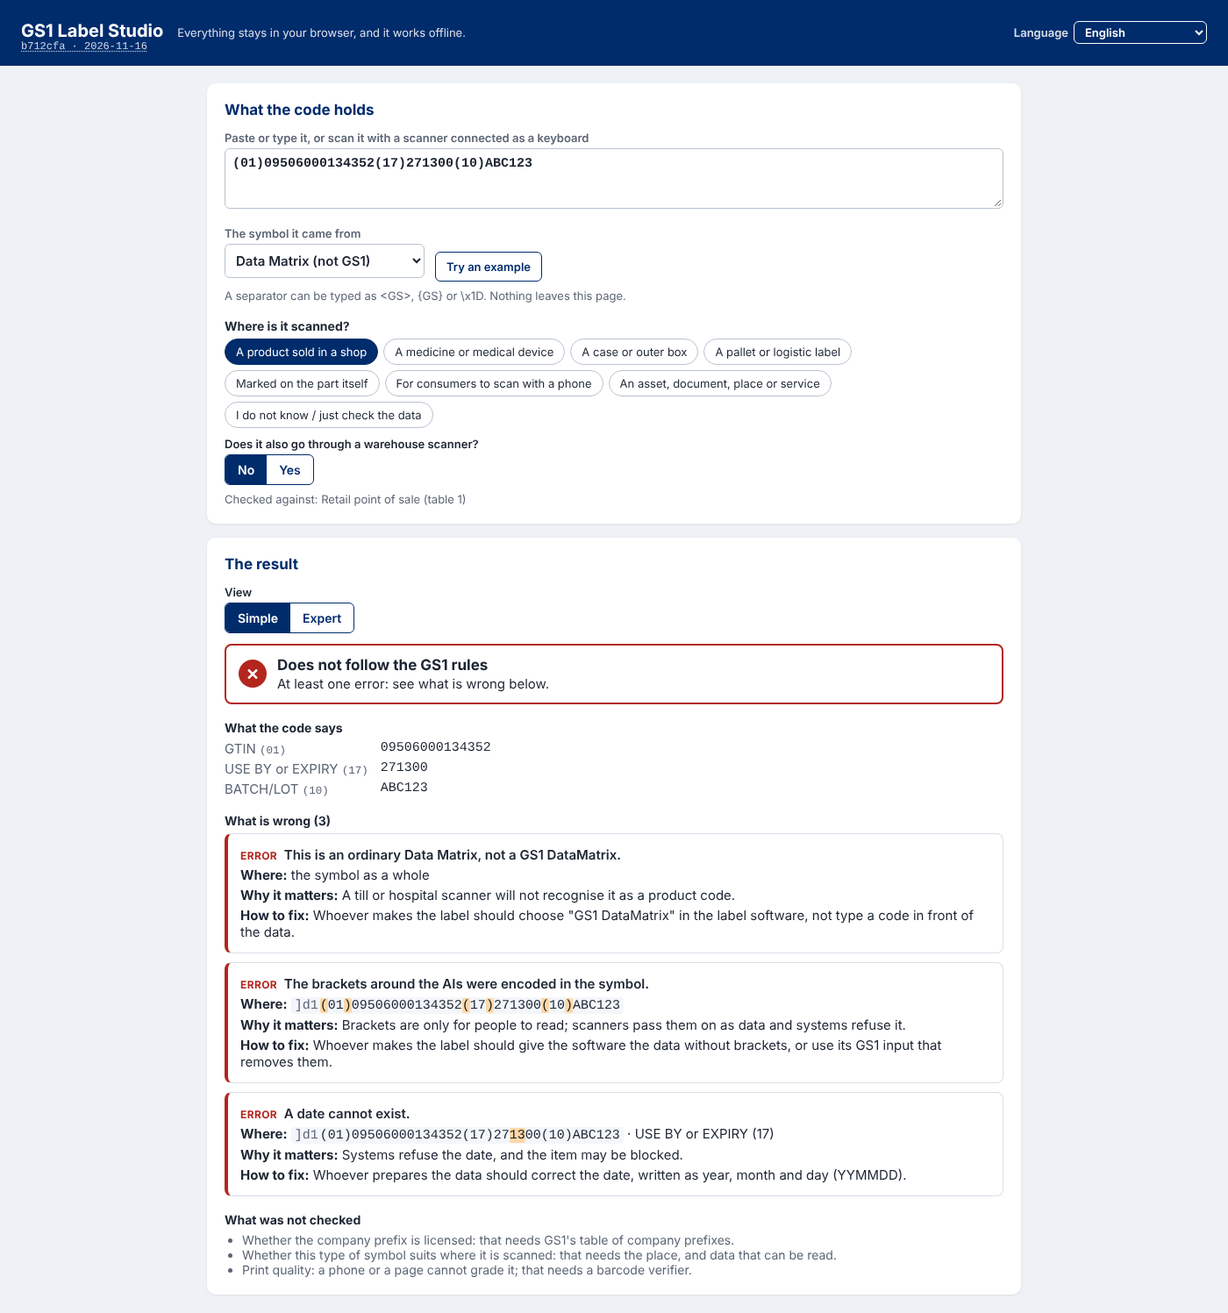
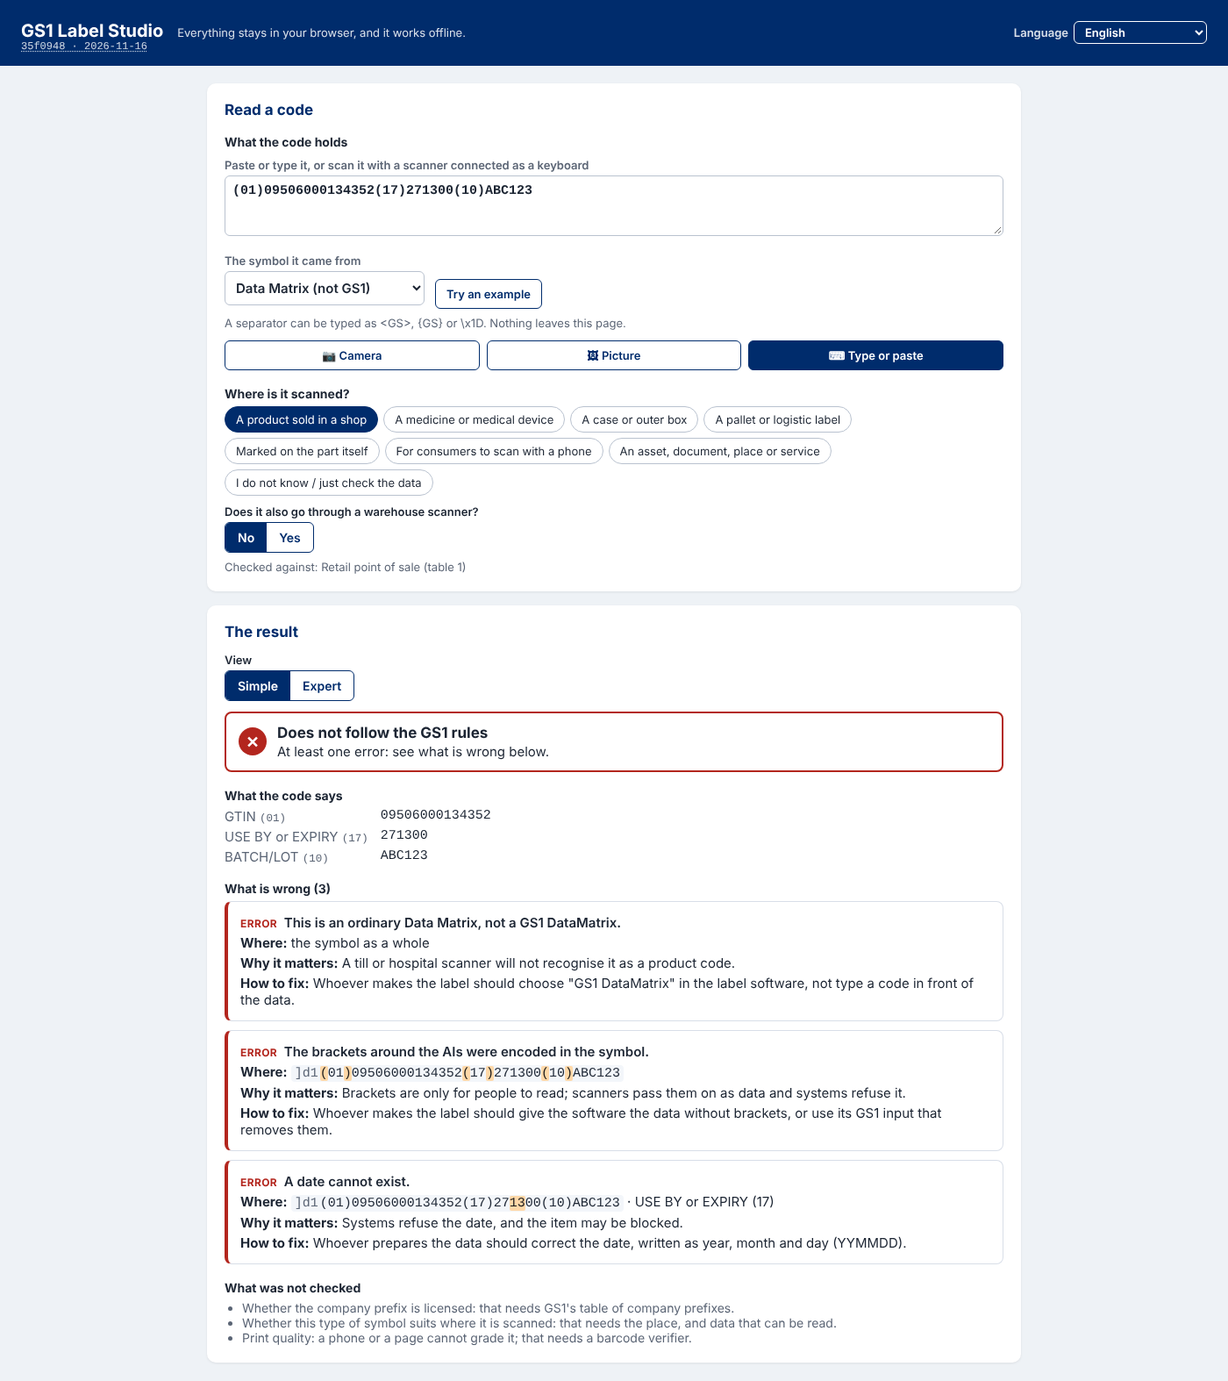
docs: the Check Studio's camera and pictures in features, the user guide, ADR 0007, the backlog and the inventory (2,675 tests)
ADR 0007 decision 13 records the ways in, the camera's life, the picture read whole, what cannot be read, and why the
browser tests play the camera as a canvas stream rather than Chromium's fake device. The user guide's Check Studio
steps gain the camera and the picture, with check-picture.png; check.png shows the new reading area.

Claude-Session: https://claude.ai/code/session_01AV1osuu6Ztavd16qwvkDRj

diff --git a/apps/web/screenshots/guide.spec.ts b/apps/web/screenshots/guide.spec.ts
@@ -1,3 +1,4 @@
+import { readFileSync } from "node:fs";
 import { expect, test, type Locator, type Page } from "@playwright/test";
 
 // The user guide's screenshots (docs/user-guide.md; ADR 0005), from the built application, each a step the guide
@@ -50,6 +51,20 @@ test("the Check Studio: the worked example's result, simple and expert", async (
   await studio.getByRole("radio", { name: "Expert" }).click();
   await studio.locator(".expert").scrollIntoViewIfNeeded();
   await shot(studio.locator(".check-result"), "check-expert");
+});
+
+test("the Check Studio: a picture of three symbols, outlined and numbered", async ({ page }) => {
+  const symbol = (file: string) =>
+    readFileSync(new URL(`../e2e/fixtures/${file}`, import.meta.url), "utf8").trim().replace(/<svg([^>]*?) width="[^"]*" height="[^"]*"/, '<svg$1 width="320" height="320"');
+  const inner = ["gs1-datamatrix.svg", "datamatrix-brackets.svg", "ean13.svg"].map((f, i) => symbol(f).replace("<svg", `<svg x="${20 + i * 360}" y="40"`)).join("");
+  const picture = `<svg xmlns="http://www.w3.org/2000/svg" width="1120" height="400" viewBox="0 0 1120 400"><rect width="100%" height="100%" fill="#f4efe6"/>${inner}</svg>`;
+  await page.goto("/#/check");
+  const studio = page.getByRole("main", { name: "Check Studio" });
+  await studio.getByRole("button", { name: "Picture", exact: true }).click();
+  await studio.getByLabel("Picture", { exact: true }).setInputFiles({ name: "pack.svg", mimeType: "image/svg+xml", buffer: Buffer.from(picture) });
+  await studio.getByRole("list", { name: "The symbols found" }).getByRole("button", { name: /\bData Matrix/ }).click();
+  await expect(studio.locator(".verdict")).toHaveAttribute("data-verdict", "does-not-follow");
+  await shot(studio.locator(".check-input"), "check-picture");
 });
 
 test("the editor at a glance", async ({ page }) => {

diff --git a/docs/test-inventory.md b/docs/test-inventory.md
@@ -1,6 +1,6 @@
 # Inventory of features from the tests
 
-Every test of the core's suite, of the web application's unit tests and of the editor's browser tests on 2026-11-16: 2,659 tests in 63 files. Each line is a test's name, a sentence that says what is true when it passes; together they say what the studio does and that it works. Each feature of [features.md](features.md) names the tests that prove it. Generated by `node scripts/inventory.mjs` from a complete run of the core's tests and the list of the browser tests ([ADR 0005](adr/0005-documentation-and-feature-inventory.md)); do not edit by hand.
+Every test of the core's suite, of the web application's unit tests and of the editor's browser tests on 2026-11-16: 2,675 tests in 65 files. Each line is a test's name, a sentence that says what is true when it passes; together they say what the studio does and that it works. Each feature of [features.md](features.md) names the tests that prove it. Generated by `node scripts/inventory.mjs` from a complete run of the core's tests and the list of the browser tests ([ADR 0005](adr/0005-documentation-and-feature-inventory.md)); do not edit by hand.
 
 Every unit test ran and passed in the run that wrote this file, the ZPL printed by Labelary included (`LABELARY=1`), but the documents' own test (`docs`), which checks this file and runs right after it is written. The browser tests are listed by Playwright and run by CI against the built application, on a desktop, a phone and a tablet held horizontally (a test about one layout is skipped in the others).
 
@@ -13,11 +13,11 @@ Every unit test ran and passed in the run that wrote this file, the ZPL printed 
 | [In bulk: rows, the report, sequences, generation](#in-bulk-rows-the-report-sequences-generation) | `batch`, `bulk`, `report`, `sequence`, `table` | 167 |
 | [Printers: the dot grid, profiles, ZPL, TSPL, EPL2, DPL, PPLA and PPLB](#printers-the-dot-grid-profiles-zpl-tspl-epl2-dpl-ppla-and-pplb) | `argox`, `dots`, `labelary`, `printer`, `printlangs`, `zpl` | 257 |
 | [RFID, NFC and digital signatures](#rfid-nfc-and-digital-signatures) | `epc`, `epcPlus`, `ndef`, `sign` | 1,286 |
-| [The Check Studio: a code read to be checked](#the-check-studio-a-code-read-to-be-checked) | `check`, `check-group`, `check-studio`, `engine-map`, `faults`, `reading` | 162 |
+| [The Check Studio: a code read to be checked](#the-check-studio-a-code-read-to-be-checked) | `camera`, `check`, `check-group`, `check-studio`, `engine-map`, `faults`, `reading` | 170 |
 | [The work saved on one's own computer and opened again](#the-work-saved-on-ones-own-computer-and-opened-again) | `lastwork`, `opened`, `work` | 9 |
 | [The interface's languages: English, Brazilian Portuguese, Spanish, French, German, Italian](#the-interfaces-languages-english-brazilian-portuguese-spanish-french-german-italian) | `i18n` | 15 |
 | [The documents](#the-documents) | `docs` | 7 |
-| [The editor in the browser (Playwright, desktop, phone and tablet)](#the-editor-in-the-browser-playwright-desktop-phone-and-tablet) | `routes`, `tour`, `check-result`, `editor`, `layouts`, `studios` | 150 |
+| [The editor in the browser (Playwright, desktop, phone and tablet)](#the-editor-in-the-browser-playwright-desktop-phone-and-tablet) | `routes`, `tour`, `check-camera`, `check-result`, `editor`, `layouts`, `studios` | 158 |
 
 ## Input and identification: the Syntax Engine, keys, qualifiers, attributes
 
@@ -2581,6 +2581,19 @@ Every unit test ran and passed in the run that wrote this file, the ZPL printed 
 
 ## The Check Studio: a code read to be checked
 
+<details><summary><code>camera</code> — 8 tests (<code>apps/web/test/camera.test.ts</code>)</summary>
+
+- the camera's problems › name a refused, missing or busy camera from the error's name
+- the track's controls › offer a torch and a zoom only where the capabilities say so
+- the same reading within three seconds › counts once; again after the interval; another symbol at once
+- the same reading within three seconds › tells symbols apart by their identifier and bytes
+- the readings of a frame or a picture › keep the decoder's bytes, identifier, corners and the picture's size
+- the readings of a frame or a picture › say when a linear symbol read by the camera or in a picture may have a Composite part left out
+- the readings of a frame or a picture › name each symbol as a person knows it
+- a picture's size › is kept up to the limit, and scaled down to it on the longest side
+
+</details>
+
 <details><summary><code>check</code> — 91 tests (<code>packages/core/test/check.test.ts</code>)</summary>
 
 - the fault corpus: each fault of groups A and B drawn in a symbol, read back by ZXing and found at its bytes › A1 (datamatrix)
@@ -2856,6 +2869,19 @@ Every unit test ran and passed in the run that wrote this file, the ZPL printed 
 - the tour's ring › is the part of the target inside the window
 - the tour's stops › on a computer, the three steps, the label's parts and the header's buttons, ending on the tour's own button
 - the tour's stops › on a phone or a tablet, each destination opened before it is pointed at, ending on More
+
+</details>
+
+<details><summary><code>check-camera</code> — 8 tests (<code>apps/web/e2e/check-camera.spec.ts</code>)</summary>
+
+- on a touch screen the studio opens on the camera, with a mouse on the text
+- the camera reads a code, opens its result and stops; Scan another starts it again
+- the camera stops when the tab is hidden, starts again when it is shown, and stops when the studio is left
+- a torch and a zoom where the camera offers them
+- a refused camera says so and offers a picture; a missing one says there is none
+- a picture of three symbols: each outlined and numbered with its verdict, one chosen shows its result
+- a picture with no barcode says what cannot be read; There is a code here gives fault A9
+- a picture pasted or dropped on the studio is read
 
 </details>
 

diff --git a/docs/features.md b/docs/features.md
@@ -119,6 +119,7 @@ Which standard each follows: [conformance](conformance.md).
 | A code checked in its context, a tag's EPC, and several carriers of one item (the Check Studio's engine; no screen yet) | Backlog 7.1 d, ADR 0007: given the reading context, `check()` holds the symbol to that context's specification table and lists the symbols it allows for the data, recommended first as step 2 does; a 2D symbol alone at a retail till, an add-on, an EAN/UPC asked for attributes; "I do not know" lists the context's checks as not assessed, never as passed; an RFID tag's EPC (classic or EPC+) decoded, its header, reserved filter and partition checked, its data through the engine; an NFC tag's URI first, in a URI record, with https; `checkGroup()` compares several readings of one item in a matrix, one row per AI and one column per carrier, character by character: different keys or values, an EPC or NFC tag that disagrees with the barcodes (a serial an SGTIN-96 cannot hold said so), attributes whose key is in another symbol, a retail pack without its linear symbol, a case's GS1-128 data missing from its 2D symbol, a logistic label that contradicts itself, a non-GS1 symbol | `fb553c9` | `check-group`: the same reading gives different verdicts · `check-group`: F1 lists the symbols allowed · `check-group`: I2: a reserved filter · `check-group`: I3: the URI not in the first record · `check-group`: an EAN-13, a GS1 DataMatrix and an SGTIN-96 · `check-group`: C9 and E1 of a reading are resolved · `check-group`: J8 compares host |
 | The start page and the studios' addresses | Backlog 7.1 e, ADR 0007: the address of the tool opens on its studios as cards; the Label Studio (`#/label`, the editor as before) and the Barcode Studio (`#/barcode`, the same editor with the barcode alone) are links, the RFID Studio named and marked coming soon (the Check Studio too, until 7.1 f); the name in the header leads back; Back and Forward move between studios and what was typed is kept; the installed application offers both studios as shortcuts | `474fa24` | `studios`: the root offers the studios · `studios`: the keyboard reaches each studio · `studios`: back and forward move between studios · `studios`: the installed application offers · `routes`: parseRoute › the root, with or without a hash |
 | The Check Studio's result | Backlog 7.1 f, ADR 0007: at `#/check`, what a code holds pasted or typed (a scanner in keyboard mode), the symbol it came from and where it is scanned (eight places, two with a follow-up question) checked by the core's `check()`; the simple view gives the verdict with an icon and a word, what the code says with the data titles in the user's language, a card per finding (what, where with the code's text highlighted, why it matters, how to fix and who does it; *Make it right* opening the Barcode Studio with the data made right) and what was not checked; the expert view the reading, the bytes in hexadecimal and as text with three copy buttons, the element strings, the other syntaxes, the findings with their codes, sections and the engine's English message beside its translation, the context and the versions; the 77 faults told in plain words in six languages; the editor's Identify card links to the studio with its data | `1555ccc` | `check-result`: the worked example · `check-result`: choosing where the code is scanned · `check-result`: Make it right · `check-result`: the result in Portuguese · `check-result`: the editor's Identify card · `check-studio`: cover every fault · `check-studio`: maps each choice |
+| The Check Studio's camera and pictures | Backlog 7.1 g, ADR 0007 decision 13: three ways in under *Read a code* (Camera, Picture, Type or paste), a touch screen opening on the camera; the camera started on a press, its frames read by ZXing in a worker for their bytes and symbology identifier, the same symbol counted once in three seconds, a tone and a vibration, the stream stopped when the result opens, when the tab is hidden and when the studio is left, a torch and a zoom where the camera offers them, a refused, missing or busy camera said so with a picture offered instead; a picture chosen, taken, dropped or pasted, every symbol found outlined, numbered and coloured by its verdict, one chosen showing its result; no barcode found says what cannot be read here (GS1 DotCode, a Composite's 2D part) and *There is a code here that is not read* gives fault A9; a linear symbol read this way lists its Composite part as not checked | `a5050d7` | `check-camera`: on a touch screen · `check-camera`: the camera reads a code · `check-camera`: the camera stops · `check-camera`: a torch and a zoom · `check-camera`: a refused camera · `check-camera`: a picture of three symbols · `check-camera`: a picture with no barcode · `check-camera`: a picture pasted or dropped · `camera`: name a refused · `camera`: offer a torch · `camera`: counts once · `camera`: keep the decoder's bytes · `camera`: say when a linear symbol |
 
 ## Exports and prepress
 

diff --git a/docs/user-guide.md b/docs/user-guide.md
@@ -75,22 +75,38 @@ another studio.
 
 ![The Check Studio with the worked example: the verdict, what the code says and three cards](images/guide/check.png)
 
-1. Open **Check Studio** on the start page (or `#/check`).
-2. Under **What the code holds**, paste or type what the code carries, or scan it with a scanner connected as a
+1. Open **Check Studio** on the start page (or `#/check`). Under **Read a code**, three buttons choose how the code
+   comes in: **Camera**, **Picture** and **Type or paste**. A phone or a tablet opens on the camera, a computer on the
+   text.
+2. With **Camera**, press **Start the camera** and allow it when the browser asks; point it at the code, which is read
+   by itself, with a tone and a vibration where the phone allows. The result opens below and the camera pauses;
+   **Scan another** starts it again. Where the phone offers them, **Torch** lights the code and **Zoom** brings it
+   closer. The camera also stops when you switch to another tab or leave the studio, and no picture of it is kept. If
+   the camera is refused or missing, the studio says so and offers a picture instead.
+3. With **Picture**, press **Take or choose a picture** (on a phone this can take a photograph), or drop a picture on
+   the box, or paste one anywhere in the studio (Ctrl+V). Every symbol found is outlined on it and numbered, coloured by
+   its verdict; when there are several, choose one in the list under the picture to see its result. When none is
+   found, the studio says what it cannot read: a GS1 DotCode, and the 2D part of a Composite symbol, which no decoder
+   here reads (for an EAN-13, a GS1-128 or a GS1 DataBar read this way, *What was not checked* says so).
+   **There is a code here that is not read** records that, with fault A9 (*This type of symbol cannot be read here*).
+
+![A picture of three symbols: each outlined, numbered and coloured by its verdict, the second chosen](images/guide/check-picture.png)
+
+4. With **Type or paste**, under **What the code holds**, paste or type what the code carries, or scan it with a scanner connected as a
    keyboard. A separator can be typed as `<GS>`, `{GS}` or `\x1D`. **Try an example** fills in the example of the
    project: an ordinary Data Matrix with the brackets encoded and a month 13.
-3. Under **The symbol it came from**, say which symbol it was, when you know; a scanner that sends its symbology
+5. Under **The symbol it came from**, say which symbol it was, when you know; a scanner that sends its symbology
    identifier (`]d2`, `]Q3`, `]C1`…) at the start says it by itself. *Not known* lets the data decide.
-4. Under **Where is it scanned?**, choose the place: a shop, a medicine or medical device (then the pharmacy, the
+6. Under **Where is it scanned?**, choose the place: a shop, a medicine or medical device (then the pharmacy, the
    pharmacy and warehouse, or a hospital), a case, a pallet, the part itself, a phone, an asset, or *I do not know*.
    Changing it checks the same data again. Without it, whether the symbol suits its place is listed as not checked.
-5. **The result** opens in the **Simple** view: the verdict with its icon and word (*Follows the GS1 rules*, *Works,
+7. **The result** opens in the **Simple** view: the verdict with its icon and word (*Follows the GS1 rules*, *Works,
    with remarks*, *Does not follow the GS1 rules*, *Not a GS1 code*), what the code says (each data title in your
    language with its value, a date written out), then a card per problem, the worst first, each saying what is wrong,
    where (the code's text with the part highlighted), why it matters and how to fix it, and who does it. When the data
    can be made right, **Make it right** opens the Barcode Studio with it. **What was not checked** ends the list; print
    quality is never graded here, since that needs a barcode verifier.
-6. **Expert** shows the same result in detail: the reading (the symbology identifier and the repairs tried), the raw
+8. **Expert** shows the same result in detail: the reading (the symbology identifier and the repairs tried), the raw
    bytes in hexadecimal and as text with the problems' bytes highlighted and three copy buttons, the element strings,
    the other syntaxes (bracketed, the engine's notation, the GS1 Digital Link URI) when the data is valid, each finding
    with its code, the General Specifications sections, the GS1 Barcode Syntax Engine's own message in English beside

diff --git a/docs/developer-guide.md b/docs/developer-guide.md
@@ -330,6 +330,7 @@ that say what is true; together they are the [inventory of features](test-invent
 | `engine-map` | Every message of the Syntax Engine and every linter's named by a fault of the Check Studio, or listed with the reason none applies | 7 |
 | `check-group` | The Check Studio's context (group F), tags (group I) and several carriers of one item (group J), with the matrix of the project's section 5.3 | 18 |
 | `check-studio` | The Check Studio's result screen: the 77 faults told in plain words, one sentence each, and the places a code is scanned mapped to scanning environments | 3 |
+| `camera` | The Check Studio's camera and pictures without a camera: a refused, missing or busy camera named, the torch and zoom offered, the same symbol counted once in three seconds, the readings of a frame or a picture, the Composite part said to be left out, the symbols' names, a picture's size | 8 |
 | `faults` | The Check Studio's catalogue: the project's 77 codes and no other, each with its severity, four texts and a source; the table of `docs/conformance.md`, 3.2 | 9 |
 | `reading` | The Check Studio's reading record: what ZXing reads of every carrier, measured and held to `docs/conformance.md`; a scanner's text, an NFC tag, an EPC | 34 |
 | `render` | PNG, PDF and zip against the resolver, PDFs drawn by pdftoppm | 20 |
@@ -357,6 +358,7 @@ that say what is true; together they are the [inventory of features](test-invent
 | `routes` | the studios' addresses: the start page, each studio, a shared link's query, the editor's anchors (apps/web/test) | 4 |
 | `studios` | the start page and the studios' addresses in a browser: one tap to the editor, the keyboard, back and forward, what was typed kept, the shortcuts (Playwright) | 5 |
 | `check-result` | the Check Studio's result in a browser: the worked example's verdict, cards and expert panels, the place re-running the checks, Make it right, Portuguese, the Identify card's link (Playwright) | 5 |
+| `check-camera` | the Check Studio's camera and pictures in a browser: the camera first on a touch screen, a code read and the camera stopped, hidden and shown, left; torch and zoom; refused and missing; a picture of three symbols outlined and numbered; no barcode and fault A9; pasted and dropped (Playwright, a canvas stream as the camera) | 8 |
 | `printlangs` | TSPL, EPL2 and DPL rendered by Labelize and read back; what they refuse | 130 |
 | `argox` | PPLA and PPLB as the DPL and EPL2 files Argox's manual allows, read back; what they refuse | 27 |
 

diff --git a/docs/adr/0007-check-studio.md b/docs/adr/0007-check-studio.md
@@ -90,6 +90,21 @@ to put it right.
    catalogue's texts stay the expert's, in English, shown as such in the expert view beside the engine's English
    message and its translation. *Make it right* opens the Barcode Studio with the data a repair made valid; the
    editor's Identify card links to the studio with its data, as a GS1 DataMatrix would carry it (`#/check?s=]d2&d=`).
+13. **The camera first on a phone, pictures read whole, what cannot be read said** (7.1 g). Three buttons under the
+   reading area choose the way in: Camera, Picture, Type or paste; a touch screen opens on the camera (the project's
+   Q3, mock-up A of two taken under the owner's rule; B, a menu of the ways in, cost a tap before every reading), a
+   mouse on the text a scanner types. The camera starts on a press, so that no page asks for it unasked; frames are
+   read every 200 ms in a worker (`decode.worker.ts`, ZXing with `textMode: "Plain"` and up to 16 symbols), the
+   same symbol counts once within three seconds, a tone and a vibration mark a reading. The stream stops when the
+   result opens, when the tab is hidden and when the studio is left; no frame is kept. Torch and zoom come from the
+   track's capabilities where offered. A picture (chosen, taken, dropped or pasted, SVG included) is drawn at most
+   2,400 pixels on its longest side and read harder; every symbol is outlined and numbered on it, coloured by its
+   verdict, and one chosen shows its result. When nothing is read, the studio names what it cannot read (DotCode, a
+   Composite's 2D part: docs/conformance.md, 3.1) and the user can record a code not read, which `check()` reports as
+   A9; a linear symbol that may host a Composite Component, read by the camera or in a picture, lists that part as not
+   checked. The browser tests play the camera as a canvas stream put in the place of `getUserMedia()` rather than
+   Chromium's fake device with a clip, as the project planned: it runs in the three projects and can also play a
+   refused, a missing and a torch-and-zoom camera; the frames still go through the video, the worker and ZXing.
 
 ## 3. Consequences
 

diff --git a/README.md b/README.md
@@ -877,7 +877,13 @@ now. 6.10 (the assistant, 13 November) before 6.4 and 6.5, which follow from it.
   an icon and a word, what the code says, a card per fault with what, where, why and how to fix, *Make it right*, what
   was not checked) and the expert view (the reading, the bytes with copy buttons, the element strings, the other
   syntaxes, the findings with their codes, sections and the engine's message, the context, the versions); the 77
-  faults told in plain words in six languages; the editor's Identify card links to it*
+  faults told in plain words in six languages; the editor's Identify card links to it; 7.1 g done on 16 November:
+  the camera and pictures (mock-up A of two: on a phone the studio opens on the camera, with Camera, Picture and Type
+  or paste under it): frames read by ZXing in a worker, the same symbol once in three seconds, a tone and a vibration,
+  the camera stopped when the result opens, the tab is hidden or the studio is left, torch and zoom where offered, a
+  refused or missing camera said so with a picture offered instead; a picture chosen, taken, dropped or pasted, every
+  symbol outlined, numbered and coloured by its verdict; what cannot be read (DotCode, a Composite's 2D part) named,
+  and a code not read recorded as fault A9*
 
 
 ## Licence
